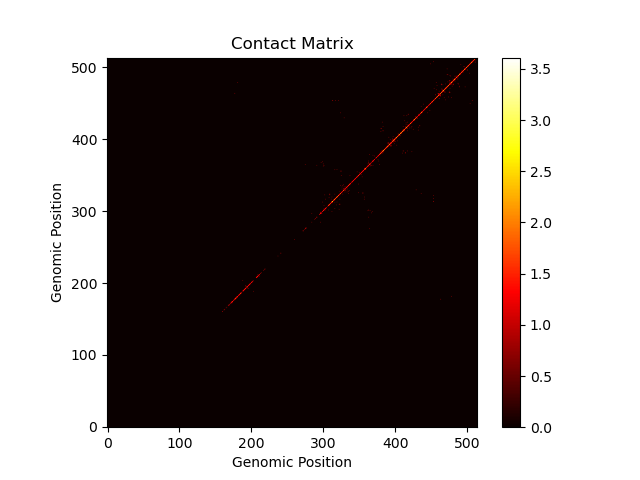
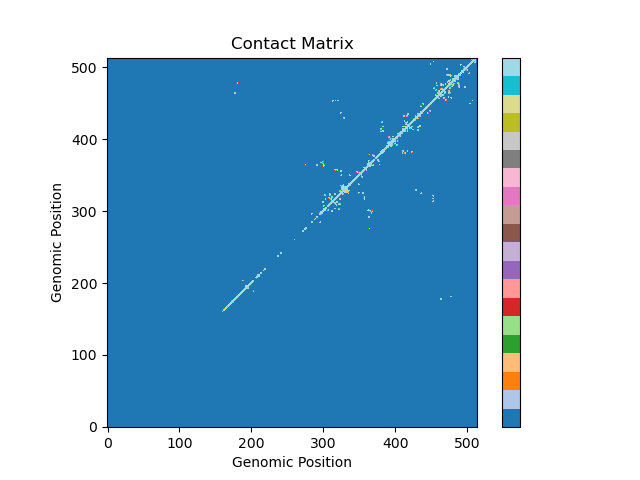
edits

diff --git a/scripts/SnapHiC-D/snapHiC_diff.py b/scripts/SnapHiC-D/snapHiC_diff.py
@@ -52,14 +52,21 @@ def g_filter(x):
     return counts
 
 
+"""
+get_usize expects all files from group A and B to be the same length
+for each GAP size, the output u_size should be the same for all input files,
+therefore, SnapHiC-d should not take a 7-column COO without the zero values on imput it needs to take the full sparse COO matrix. 
+"""
 def get_usize(GAP, ann_dir, dir_in_A, dir_in_B,b_ID,gID,BINSIZE):
     ann = pd.read_csv(ann_dir, header='infer', sep=' ', lineterminator='\n') 
     if(ann['group'][1] == "A"):
-        x = cool_to_coo(dir_in_A + ann['name'][1] ,BINSIZE)
-        #x = pd.read_csv(dir_in_A + ann['name'][1], header=None, sep="\t")
+        #print("A")
+        #x = cool_to_coo(dir_in_A + ann['name'][1] ,BINSIZE)
+        x = pd.read_csv(dir_in_A + ann['name'][1], sep="\t") #header=None,
     else:
-        x = cool_to_coo(dir_in_B + ann['name'][1] ,BINSIZE)
-        #x = pd.read_csv(dir_in_B + ann['name'][1], header=None, sep="\n")
+        #print("B")
+        #x = cool_to_coo(dir_in_B + ann['name'][1] ,BINSIZE)
+        x = pd.read_csv(dir_in_B + ann['name'][1], sep="\t") #header=None,
 
     #x.columns = ["chrnum", "from", "from.1", "chrnum.1", "to", "to.1", "value"]
     x[["from", "from.1", "to", "to.1"]] = x[["from", "from.1", "to", "to.1"]]/BINSIZE
@@ -69,7 +76,7 @@ def get_usize(GAP, ann_dir, dir_in_A, dir_in_B,b_ID,gID,BINSIZE):
     u = z[(z['from'].isin(gID)) | (z['to'].isin(gID))]
     #print(f"-------usize------\nx\n{x}\ny\n{y}\nz\n{z}\nu\n{u}")
     u_size = u.shape[0]
-    return u_size
+    return u_size, x.shape, y.shape, z.shape, u.shape 
 
 
 def get_ID(CHR,BINSIZE,SnapHiC_dir,genome):
@@ -98,22 +105,21 @@ def rest_of_steps(GAP, chr_list, dir_in_B, dir_in_A, ann_dir, out_dir, b_ID, gID
     num_A = sum(ann['group'] == "A")
     num_B = sum(ann['group'] == "B")
 
-    u_size = get_usize(GAP, ann_dir, dir_in_A, dir_in_B,b_ID,gID,BINSIZE)
+    u_size, x_shape, y_shape, z_shape, u_shape = get_usize(GAP, ann_dir, dir_in_A, dir_in_B,b_ID,gID,BINSIZE)
     rec = np.zeros((u_size, len(ann)))
     
-    
     for ID in range(0, len(ann)):
-        print(ID, len(ann))
         if(ann['group'][ID] == "A"):
+            #print("A")
             #x = pd.read_csv(dir_in_A + ann['name'][ID], sep=",")
-            #x = pd.read_csv(dir_in_A + ann['name'][ID], header=None, sep="\t")
-            x = cool_to_coo(dir_in_A + ann['name'][ID],BINSIZE)
+            x = pd.read_csv(dir_in_A + ann['name'][ID], sep="\t") #header=None,
+            #x = cool_to_coo(dir_in_A + ann['name'][ID],BINSIZE)
         else:
+            #print("B")
             #x = pd.read_csv(dir_in_B + ann['name'][ID], sep=",")
-            #x = pd.read_csv(dir_in_B + ann['name'][ID], header=None, sep="\t")
-            x = cool_to_coo(dir_in_B + ann['name'][ID],BINSIZE)
+            x = pd.read_csv(dir_in_B + ann['name'][ID], sep="\t") # header=None,
+            #x = cool_to_coo(dir_in_B + ann['name'][ID],BINSIZE)
             
-
         #x.columns = ["chrnum", "from", "from.1", "chrnum.1", "to", "to.1", "value"]
         x[["from", "from.1", "to", "to.1"]] = x[["from", "from.1", "to", "to.1"]]/BINSIZE
 
@@ -121,9 +127,11 @@ def rest_of_steps(GAP, chr_list, dir_in_B, dir_in_A, ann_dir, out_dir, b_ID, gID
         z = y[(~y['from'].isin(b_ID)) & (~y['to'].isin(b_ID))]
         u = z[(z['from'].isin(gID)) | (z['to'].isin(gID))]
         
+        # test_u_size = get_usize(GAP, ann_dir, dir_in_A, dir_in_B,b_ID,gID,BINSIZE)
         #print(f"-------rest of steps------\nx\n{x}\ny\n{y}\nz\n{z}\nu\n{u}")
-        print(u_size, rec[:,ID].shape,  u["value"].shape)
+        # print(u_size, test_u_size, rec[:,ID].shape,  u["value"].shape)
         #print(u["value"])
+        print(x.shape, x_shape, " - " ,y.shape, y_shape, " - ",z.shape, z_shape," - " , u.shape, u_shape)
 
         rec[:, ID] = u['value']
         

diff --git a/scripts/SnapHiC-D/test_snapHiC_diff.py b/scripts/SnapHiC-D/test_snapHiC_diff.py
@@ -37,9 +37,9 @@ def main():
     
     b_ID, gID = get_ID(CHR,BINSIZE,SnapHiC_dir,genome)
     GAP=list(range(min_gap, max_gap))
-    print(f"b_ID\n{b_ID}")
-    print(f"gID\n{gID}")
-    print(f"GAP\n{GAP}")
+    # print(f"b_ID\n{b_ID}")
+    # print(f"gID\n{gID}")
+    # print(f"GAP\n{GAP}")
 
     out = []
     final_out = []
@@ -61,11 +61,11 @@ def get_usize(GAP, ann_dir, dir_in_A, dir_in_B,b_ID,gID,BINSIZE):
     if(ann['group'][1] == "A"):
         #x = cool_to_coo(dir_in_A + ann['name'][1] ,BINSIZE)
         #x = pd.read_csv(dir_in_A + ann['name'][1], header=None, sep="\n")
-        x = pd.read_csv(dir_in_A + ann['name'][1], sep=",") # modified to be sep=',' rather than '\t'
+        x = pd.read_csv(dir_in_A + ann['name'][1], sep="\t") # modified to be sep=',' rather than '\t'
     else:
         #x = cool_to_coo(dir_in_B + ann['name'][1] ,BINSIZE)
         #x = pd.read_csv(dir_in_B + ann['name'][1], header=None, sep="\n")
-        x = pd.read_csv(dir_in_B + ann['name'][1], sep=",") # modified to be sep=',' rather than '\t'
+        x = pd.read_csv(dir_in_B + ann['name'][1], sep="\t") # modified to be sep=',' rather than '\t'
 
     #print(x)
     #x.columns = ["chrnum", "from", "from.1", "chrnum.1", "to", "to.1", "value"]
@@ -115,11 +115,11 @@ def rest_of_steps(GAP, chr_list, dir_in_B, dir_in_A, ann_dir, out_dir, b_ID, gID
     
     for ID in range(0, len(ann)):
         if(ann['group'][ID] == "A"):
-            x = pd.read_csv(dir_in_A + ann['name'][ID], sep=",")
+            x = pd.read_csv(dir_in_A + ann['name'][ID], sep="\t")
             #x = pd.read_csv(dir_in_A + ann['name'][ID], header=None, sep="\t")
             #x = cool_to_coo(dir_in_A + ann['name'][ID],BINSIZE)
         else:
-            x = pd.read_csv(dir_in_B + ann['name'][ID], sep=",")
+            x = pd.read_csv(dir_in_B + ann['name'][ID], sep="\t")
             #x = pd.read_csv(dir_in_B + ann['name'][ID], header=None, sep="\t")
             #x = cool_to_coo(dir_in_B + ann['name'][ID],BINSIZE)
             
@@ -128,13 +128,12 @@ def rest_of_steps(GAP, chr_list, dir_in_B, dir_in_A, ann_dir, out_dir, b_ID, gID
         x[["from", "from.1", "to", "to.1"]] = x[["from", "from.1", "to", "to.1"]]/BINSIZE
 
         y = x[x['to']-x['from'] == GAP]
-        print(x['to']-x['from'] )
         z = y[(~y['from'].isin(b_ID)) & (~y['to'].isin(b_ID))]
         u = z[(z['from'].isin(gID)) | (z['to'].isin(gID))]
 
         #print((z['from'].isin(gID)) | (z['to'].isin(gID)))
         
-        #print(u.shape)
+        print(u.shape)
         rec[:, ID] = u['value']
         
 
@@ -146,7 +145,7 @@ def rest_of_steps(GAP, chr_list, dir_in_B, dir_in_A, ann_dir, out_dir, b_ID, gID
 
     index = np.array([a or b for a, b in zip(countA, countB)]).astype(int)
     u_combine = np.c_[u[['from','from.1','to','to.1']], rec]
-    print(u_combine.shape)
+    #print(u_combine.shape)
     final = u_combine[index == 1, ]
     
     #print(final.size)

diff --git a/scripts/SnapHiC-D/cool_to_coo.py b/scripts/SnapHiC-D/cool_to_coo.py
@@ -1,5 +1,6 @@
 import cooler
 import pandas as pd
+import numpy as np
 import scipy.sparse as sp
 
 def cool_to_coo(cool_path, resolution):
@@ -15,8 +16,36 @@ def cool_to_coo(cool_path, resolution):
     for chromosome in chrom_names:
         # Extract the contact matrix for the current chromosome
         matrix = c.matrix(balance=False).fetch(chromosome)
+
+        # df = pd.DataFrame()
+        # for r in range(len(matrix)):
+        #     for c in range(len(matrix)):
+        #         # New row to append
+        #         new_row = pd.Series({'chrnum':int(chromosome[3:]),
+        #                              'from': r*resolution,
+        #                              'from.1': (r+1)*resolution,
+        #                              'chrnum.1':int(chromosome[3:]),
+        #                              'to': c*resolution,
+        #                              'to.1': (c+1)*resolution,
+        #                              'value': matrix[r][c]
+        #                              })
+
+        #         # Append the new row to the DataFrame
+        #         df = pd.concat([df, new_row.to_frame().T], ignore_index=True)
+        # print(df)
+
+        blank_df = pd.DataFrame()
+        blank_df["chrnum"] = [int(chromosome[3:])] * matrix.shape[0] **2
+        blank_df["from"] = np.tile(np.arange(0, matrix.shape[0] * resolution, resolution), matrix.shape[0])
+        blank_df["from.1"] = blank_df["from"] + resolution
+        blank_df["chrnum.1"] = [int(chromosome[3:])] * matrix.shape[0] **2
+        blank_df["to"] = np.repeat(np.arange(0, matrix.shape[0] * resolution, resolution), matrix.shape[0])
+        blank_df["to.1"] = blank_df["to"] + resolution
+        blank_df["value"] = 0
+        
         df = pd.DataFrame(matrix)
         coo = sp.coo_matrix(df)
+        #print(coo)
 
         # Create a DataFrame for the current chromosome
         df_chromosome = pd.DataFrame()
@@ -28,8 +57,16 @@ def cool_to_coo(cool_path, resolution):
         df_chromosome["to.1"] = df_chromosome["to"] + resolution
         df_chromosome["value"] = coo.data
 
+        total_df = pd.concat([blank_df, df_chromosome], ignore_index=True)
+        #print(df_chromosome)
+        #print(blank_df)
+        #print(total_df)
+        grouped = total_df.groupby(['chrnum','from','from.1','chrnum.1','to','to.1'])
+        blank_df['value'] = grouped['value'].transform('sum')
+
+        # print(blank_df)
         # Append the DataFrame for the current chromosome to the data list
-        data.append(df_chromosome)
+        data.append(blank_df)
 
     # Concatenate all the chromosome DataFrames into a single DataFrame
     result_df = pd.concat(data, ignore_index=True)

diff --git a/scripts/dataVis.py b/scripts/dataVis.py
@@ -4,50 +4,57 @@ import numpy as np
 import pandas as pd
 import cooler
 
+# Set the precision to display all decimal places
+np.set_printoptions(precision=16)
 
 # inputfile = sys.argv[1] 
 # outputfile = sys.argv[2] 
 
 def visualize_hic(inputfile, outputfile): 
-# Load Hi-C data from a text or CSV file using NumPy or Pandas
-# 'hic_data' should be a 2D numpy array or a pandas DataFrame
-#filepath = "/project/compbio-lab/scHi-C/Lee2019/Human_single_cell_10kb_cool/181218_21yr_2_A10_AD001_L23_10kb_contacts.cool"
-
-    filepath = inputfile #"/home/maa160/CompBioRA2023/tempData/imputed.cool"
+    filepath = inputfile
     c = cooler.Cooler(filepath)
-
-    #c.coarsen_cooler()
 
     # Get the contact matrix (e.g., for chromosome 1)
     chrom = "chr22"
-    # start = 0
-    # end = 2000000
     matrix = c.matrix(balance=False).fetch(f"{chrom}")
+    #print(np.float32(np.min(matrix)), np.float32(np.min(np.log1p(matrix))))
 
-    # log(M + 1) scale the image
+    # log(M + 1) scale the matrix
     matrix_log = np.log1p(matrix)
-    min_value = np.min(matrix_log)
-    max_value = np.max(matrix_log)
+    mean_value = np.mean(matrix_log)
+    std_dev = np.std(matrix_log)
 
-    # # Define the desired downsampling factor
-    # downsample_factor = 1
+    min_value = 0#0.0000001#np.finfo(np.float32).tiny * 2 #mean_value - 4 * std_dev# #smallest positive numpy.float64  #np.min(matrix_log)
+    max_value = np.max(matrix_log)/64
 
-    # # Downsample the matrix
-    # downsampled_matrix = matrix_log[::downsample_factor, ::downsample_factor]
+    #print(min_value, mean_value + 3 * std_dev, np.max(matrix_log)/64)
 
     # Clear the plot
     plt.clf()
 
+    # Create a discrete colormap with 10 colors
+    cmap = plt.get_cmap('tab20', 20)
+    
+    # Set the color for the exact zero values
+    #cmap.set_under("gray")  # Replace with your desired color for zero values
+
     # Create a heatmap plot
-    plt.imshow(matrix_log, cmap="hot", origin="lower", vmin=min_value, vmax=max_value)
+    plt.imshow(matrix_log, cmap=cmap, origin="lower", vmin=min_value, vmax=max_value)
 
     # Set the plot title and labels
     plt.title("Contact Matrix")
     plt.xlabel("Genomic Position")
     plt.ylabel("Genomic Position")
 
-    # Show the colorbar
-    plt.colorbar()
+    # Generate logarithmically spaced ticks for the colorbar
+    num_ticks = 20
+    log_ticks = np.logspace(min_value, max_value, num=num_ticks)
+
+    # Show the colorbar with logarithmic scale
+    cbar = plt.colorbar(ticks=log_ticks)
+    #cbar.set_label('Intensity')
+    cbar.ax.set_yticklabels(["{:.2e}".format(tick) for tick in log_ticks])
+
 
     # Show the heatmap
     plt.savefig(outputfile)

diff --git a/scripts/coarsen_impute_visualize.py b/scripts/coarsen_impute_visualize.py
@@ -23,7 +23,7 @@ if not os.path.exists(image_directory_path):
     os.mkdir(image_directory_path)
 
 # create cool directory
-cool_directory_path = "/project/compbio-lab/100kb_imputed_cool/"+new_file_name
+cool_directory_path = "/project/compbio-lab/scHi-C/100kb_imputed_cool/"+new_file_name
 # Check if the directory exists
 if not os.path.exists(cool_directory_path):
     os.mkdir(cool_directory_path)
@@ -39,8 +39,8 @@ imputed_outpath = cool_directory_path+"/"+new_file_name+"_imputed.cool"
 
 # visualize coarsen impute
 visualize_hic(inpath, orig_img_outpath)
-coarsen(inpath, coarse_outpath)
+#coarsen(inpath, coarse_outpath)
 visualize_hic(coarse_outpath, coarse_img_outpath)
-impute(coarse_outpath, imputed_outpath)
+#impute(coarse_outpath, imputed_outpath)
 visualize_hic(imputed_outpath, imputed_img_outpath)
 

diff --git a/scripts/rwr.py b/scripts/rwr.py
@@ -173,6 +173,7 @@ def impute_chromosome(scool_url,
         'end': np.arange(resolution, num_bins * resolution + resolution, resolution)
     })
     coo_matrix = E.tocoo()
+    
     # Create DataFrame from the coo_matrix data
     pixels = pd.DataFrame({
         'bin1_id': coo_matrix.row,
@@ -186,7 +187,9 @@ def impute_chromosome(scool_url,
                         bins=bins, 
                         pixels=pixels,
                         ordered=True,
-                        dtypes={'count': np.float32})
+                        dtypes={'count': np.float32}) # TODO: should this be float32?
+    
+    ## Check if cool file looks correct
     #c= cooler.Cooler(output_path)
     #T = c.matrix(balance=False, sparse=True).fetch(chrom)
     #print(T)

diff --git a/scripts/SnapHiC-D/save_coo.py b/scripts/SnapHiC-D/save_coo.py
@@ -1,0 +1,8 @@
+from cool_to_coo import cool_to_coo
+import pandas as pd
+
+df1 = cool_to_coo("/project/compbio-lab/100kb_imputed_cool/181218_21yr_2_A12_AD004_OPC_100kb_contacts/181218_21yr_2_A12_AD004_OPC_100kb_contacts_imputed.cool", 100000)
+df1.to_csv('/project/compbio-lab/100kb_imputed_cool/181218_21yr_2_A12_AD004_OPC_100kb_contacts/181218_21yr_2_A12_AD004_OPC_100kb_contacts_imputed.csv', sep='\t', index=False)
+
+df2 = cool_to_coo("/project/compbio-lab/100kb_imputed_cool/181218_21yr_2_A12_AD006_MP_100kb_contacts/181218_21yr_2_A12_AD006_MP_100kb_contacts_imputed.cool",100000)
+df2.to_csv('/project/compbio-lab/100kb_imputed_cool/181218_21yr_2_A12_AD006_MP_100kb_contacts/181218_21yr_2_A12_AD006_MP_100kb_contacts_imputed.csv', sep='\t', index=False)
